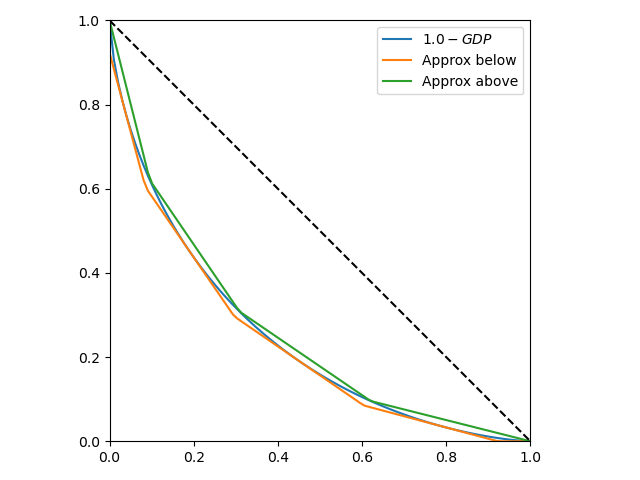
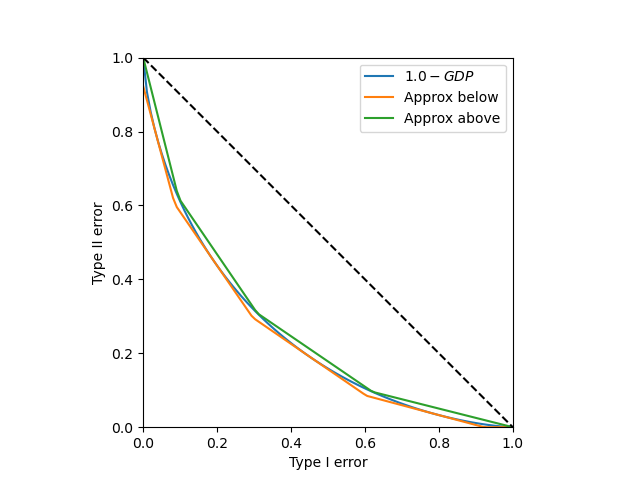
added axes labels

diff --git a/src/base/utils.py b/src/base/utils.py
@@ -47,7 +47,8 @@ def plot_multiple_functions(
     plt.legend()
     ax.set_aspect('equal', adjustable='box')
     ax.set_autoscale_on(False)
-    plt.tight_layout()
+    plt.xlabel("Type I error")
+    plt.ylabel("Type II error")
 
     if save_to is not None:
         plt.savefig(save_to)
